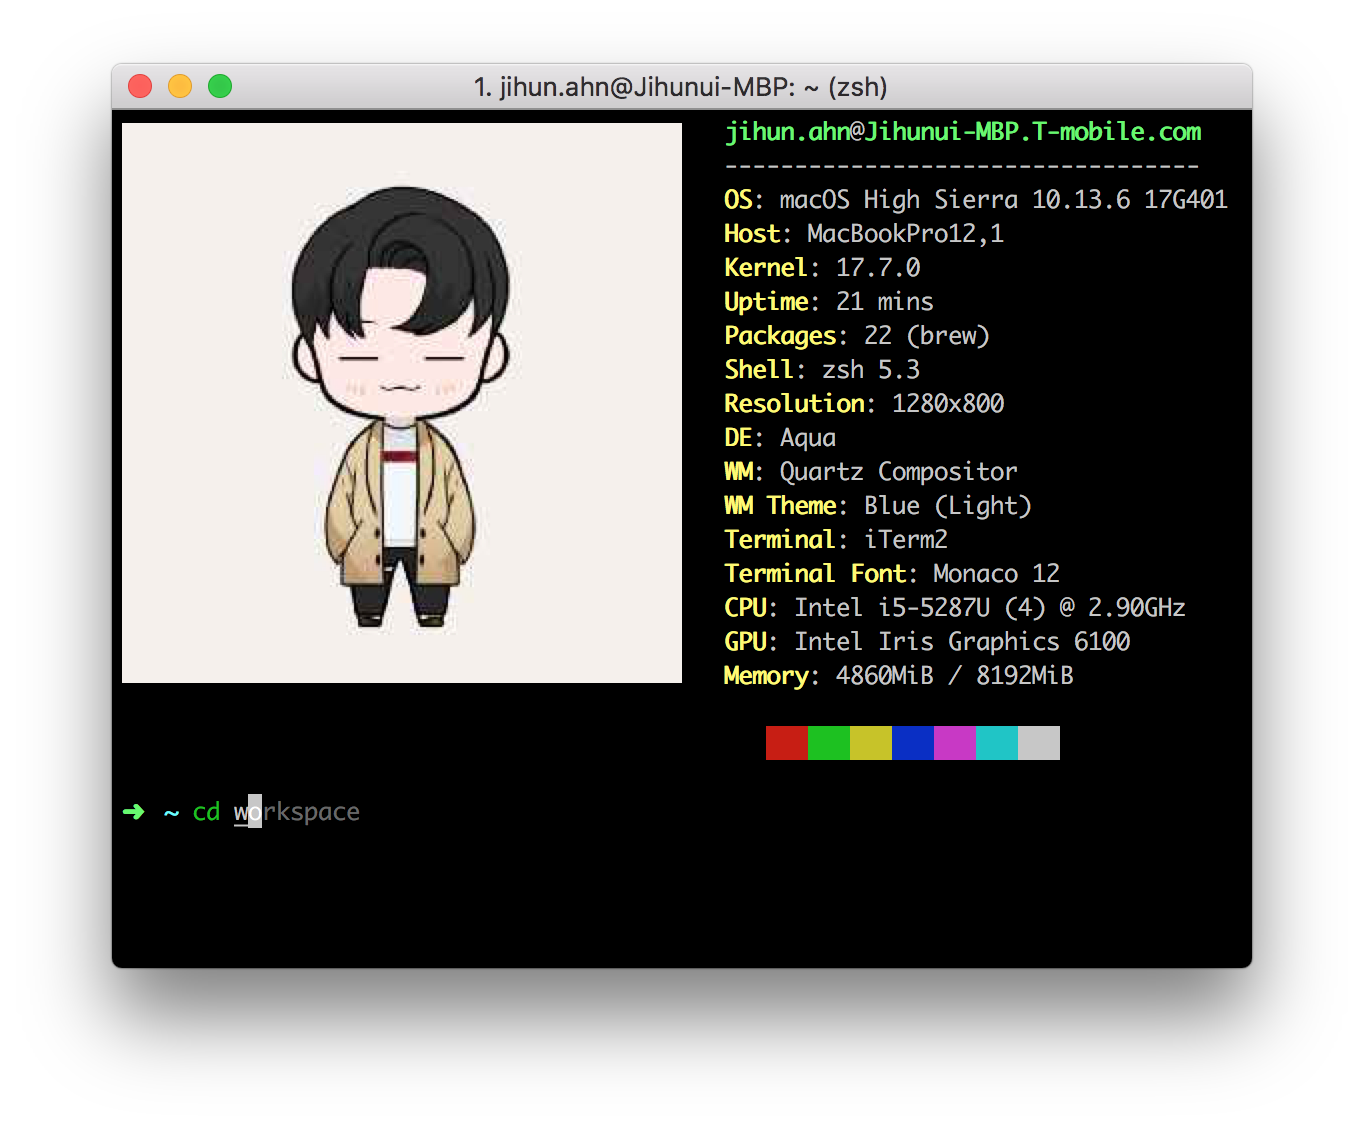
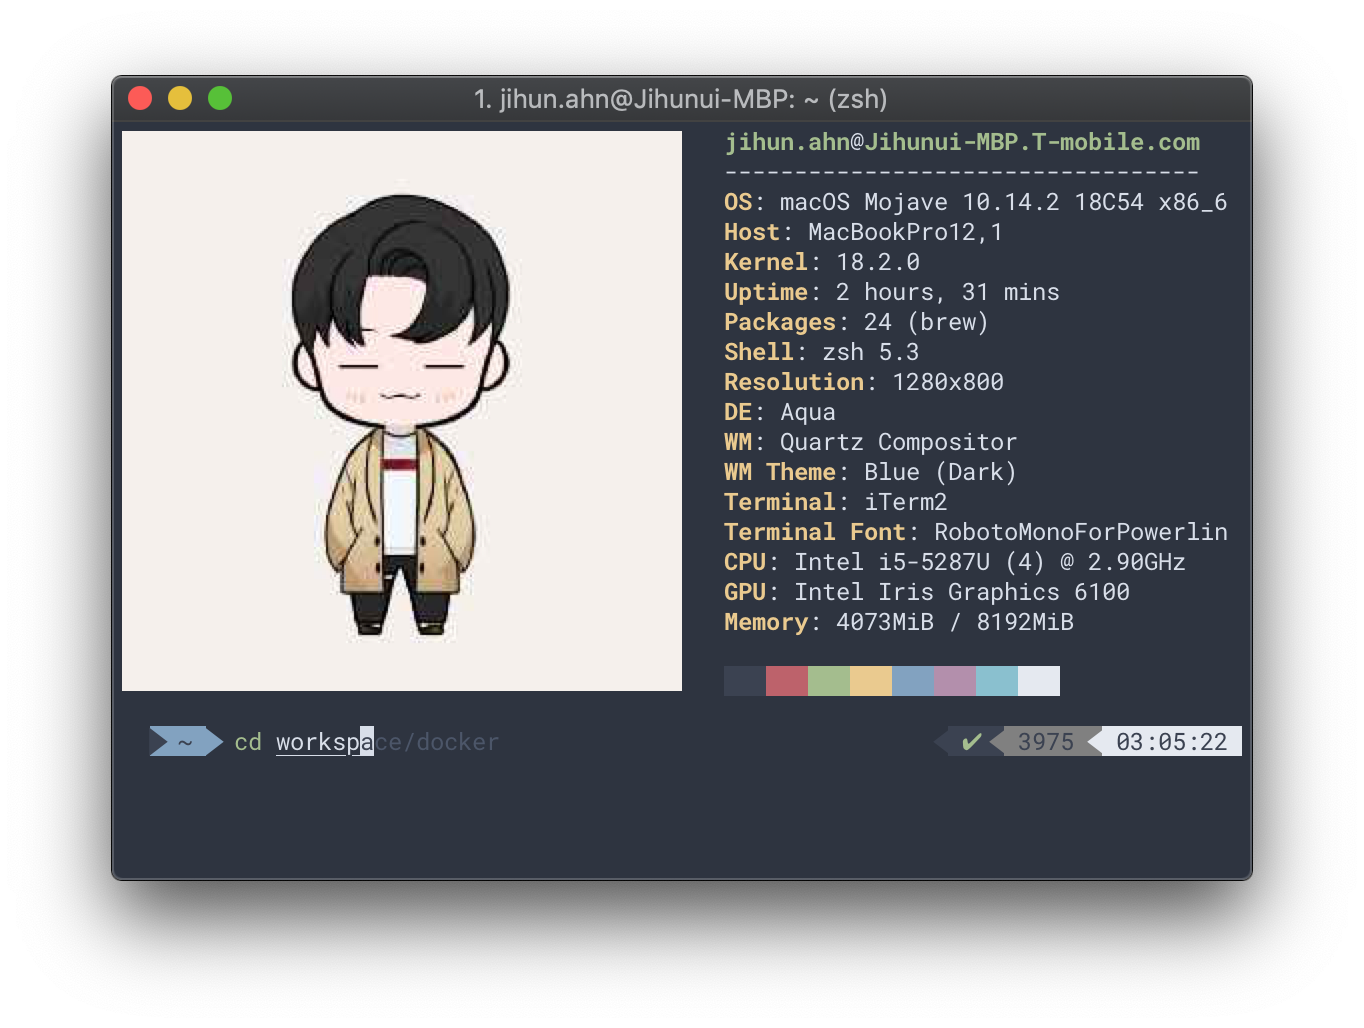
shell: update README.md

diff --git a/shell/README.md b/shell/README.md
@@ -27,5 +27,12 @@ $ make uninstall MODE=bash
 [oh-my-zsh](https://ohmyz.sh) is a delightful, managing zsh configuration. It comes bundled with a ton of helpful functions, helpers, plugins, themes, and a few things that make you shout...
 
 ### Plugins
-- [zsh-syntax-highlighting](https://github.com/zsh-users/zsh-syntax-highlighting#zsh-syntax-highlighting-): It enables highlighting of commands whilst they are typed at a zsh prompt into an interactive terminal.
+- [zsh-syntax-highlighting](https://github.com/zsh-users/zsh-syntax-highlighting#zsh-syntax-highlighting): It enables highlighting of commands whilst they are typed at a zsh prompt into an interactive terminal.
 - [zsh-autosuggestions](https://github.com/zsh-users/zsh-autosuggestions): It suggests commands as you type, based on command history.
+- [zsh-completions](https://github.com/zsh-users/zsh-completions): Additional completion definitions for Zsh.
+
+### themes
+- [powerlevel9k](https://github.com/bhilburn/powerlevel9k): The most awesome Powerline theme for ZSH around!
+
+### Fonts
+- [powerline](https://github.com/powerline/fonts): Patched fonts for Powerline users.
